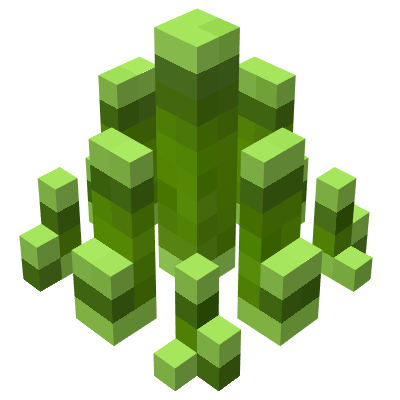
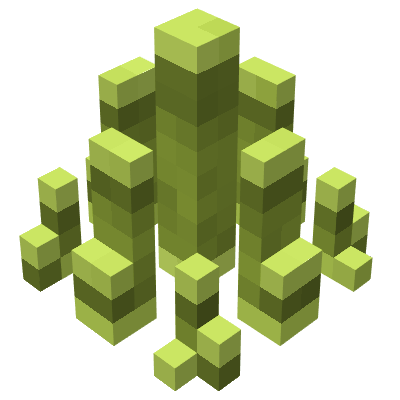
update colors to match mc, fix e/w placement orientation

diff --git a/src/main/java/justfatlard/bamboo_spikes/Main.java b/src/main/java/justfatlard/bamboo_spikes/Main.java
@@ -70,8 +70,8 @@ public class Main implements ModInitializer {
 		setupPolymerModel(Direction.DOWN, "down");
 		setupPolymerModel(Direction.NORTH, "north");
 		setupPolymerModel(Direction.SOUTH, "south");
-		setupPolymerModel(Direction.EAST, "east");
-		setupPolymerModel(Direction.WEST, "west");
+		setupPolymerModel(Direction.EAST, "west");
+		setupPolymerModel(Direction.WEST, "east");
 
 		// Create Polymer item group (access via /polymer creative)
 		ItemGroup bambooSpikesGroup = PolymerItemGroupUtils.builder()

diff --git a/README.md b/README.md
@@ -3,6 +3,9 @@
 [![CurseForge](http://cf.way2muchnoise.eu/full_bamboo-spikes_downloads.svg)](http://www.curseforge.com/minecraft/mc-mods/bamboo-spikes)
 [![CurseForge](http://cf.way2muchnoise.eu/versions/bamboo-spikes.svg)](http://www.curseforge.com/minecraft/mc-mods/bamboo-spikes)
 
+![Bamboo Spikes](img.png)
+![Bamboo Spikes on Bamboo](img2.png)
+
 A [Minecraft](minecraft.net) mod built on [Fabric](fabricmc.net).
 
 This mod adds one block, Bamboo Spikes. These spikes will hurt anything that touches them.
